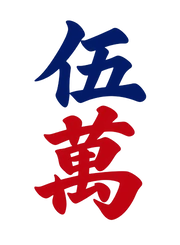
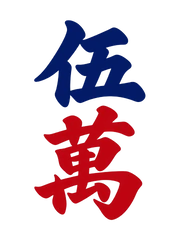
feat(mahjong): 斗內卡與感謝訊息、歷史紀錄空狀態精簡、伍萬筆畫加粗
- 歷史紀錄頁：LINE 帳號累計自摸大於 0 時顯示斗內卡，按「斗內給阿瑋．NT$50」顯示感謝訊息並歸零；「下次自摸再說」只收起
- 空狀態只留「還沒有紀錄」和「建立房間」
- 伍萬的「伍」筆畫加粗到和其他萬子一致（約 15.2px），大小、位置、顏色不變

diff --git a/app/globals.css b/app/globals.css
@@ -746,6 +746,45 @@
 .mjl-rec-sum .k { font-size: 12px; color: rgba(255,255,255,.45); }
 .mjl-rec-sum .v { font-size: 22px; font-weight: 800; font-variant-numeric: tabular-nums; color: var(--gold-l); }
 .mjl-rec-list { flex: 1; min-height: 0; overflow-y: auto; display: flex; flex-direction: column; gap: 8px; padding-bottom: 10px; }
+/* 斗內給阿瑋（小宜規格 2026-10-21；老闆：按鈕改小放右側、拿掉「不會開啟付款或跳轉」那行）。只用 .mjl-donate-*，不動 .mjl-rec-* */
+.mjl-rec-head h2:focus { outline: none; }
+.mjl-donate { flex: 0 0 auto; display: grid; grid-template-columns: 40px minmax(0, 1fr) auto; grid-template-areas: "t c b" "f f f"; align-items: center; column-gap: 12px; row-gap: 8px; margin: 0 0 10px; padding: 14px 16px 12px;
+  border: 1px solid rgba(240,214,138,.34); border-radius: 16px; background: linear-gradient(115deg, rgba(201,169,110,.17), rgba(255,255,255,.045) 55%, rgba(25,81,49,.22)); box-shadow: 0 12px 28px rgba(0,0,0,.16);
+  animation: mjl-donate-in .15s ease-out; }
+@keyframes mjl-donate-in { from { opacity: 0; transform: translateY(6px); } }
+.mjl-donate-trophy { grid-area: t; width: 40px; height: 40px; border-radius: 13px; display: grid; place-items: center; font-size: 22px; background: linear-gradient(145deg, #f7df8c, #bd8e32); box-shadow: inset 0 1px rgba(255,255,255,.55), 0 5px 13px rgba(0,0,0,.2); }
+.mjl-donate-copy { grid-area: c; min-width: 0; display: flex; flex-direction: column; gap: 3px; }
+.mjl-donate-copy .cnt { font-size: 15px; font-weight: 800; color: #fff; }
+.mjl-donate-copy .cnt b { color: var(--gold-l); font-variant-numeric: tabular-nums; }
+.mjl-donate-copy .sub { font-size: 12px; line-height: 1.5; color: rgba(255,255,255,.64); overflow: hidden; text-overflow: ellipsis; white-space: nowrap; }
+/* 精簡按鈕：右側、不滿版；點擊範圍至少 44px（::after 往外擴；z-index 讓它蓋過下面「下次自摸再說」的擴大範圍） */
+.mjl-donate-btn { grid-area: b; position: relative; z-index: 1; height: 38px; padding: 0 14px; border-radius: 11px; background: #f0d68a; color: #142216; font-size: 14px; font-weight: 900; white-space: nowrap; cursor: pointer;
+  box-shadow: 0 3px 0 #937331, 0 6px 12px rgba(0,0,0,.18); transition: transform .14s ease, box-shadow .14s ease, filter .14s ease; }
+.mjl-donate-btn::after { content: ""; position: absolute; inset: -4px -2px; }
+.mjl-donate-btn:hover { filter: brightness(1.06); }
+.mjl-donate-btn:active { transform: translateY(2px) scale(.99); box-shadow: 0 1px 0 #937331, 0 3px 7px rgba(0,0,0,.2); }
+.mjl-donate-btn:disabled { opacity: .6; }
+.mjl-donate-btn:focus-visible { outline: 2px solid #fff; outline-offset: 3px; }
+.mjl-donate-foot { grid-area: f; display: flex; align-items: center; justify-content: space-between; gap: 10px; font-size: 11px; color: rgba(255,255,255,.49); }
+.mjl-donate-later { position: relative; padding: 2px 0; color: rgba(240,214,138,.9); font-size: 12px; text-decoration: underline; text-underline-offset: 3px; cursor: pointer; }
+.mjl-donate-later::after { content: ""; position: absolute; inset: -12px -6px; }
+.mjl-donate-hidden { flex: 0 0 auto; margin: 0 0 10px; padding: 8px 13px; border: 1px dashed rgba(255,255,255,.18); border-radius: 13px; font-size: 12px; color: rgba(255,255,255,.58); text-align: center; }
+.mjl-donate-hidden button { margin-left: 7px; color: var(--gold-l); text-decoration: underline; cursor: pointer; }
+.mjl-donate-shade { position: fixed; inset: 0; z-index: 80; display: grid; place-items: center; padding: 16px; background: rgba(3,12,7,.72); backdrop-filter: blur(4px); animation: mjl-donate-fade .18s ease; }
+@keyframes mjl-donate-fade { from { opacity: 0; } }
+.mjl-donate-thanks { position: relative; width: min(420px, 100%); padding: 29px 26px 25px; border: 1px solid rgba(240,214,138,.48); border-radius: 22px; text-align: center; color: #fff;
+  background: linear-gradient(145deg, #153a25, #0b2115); box-shadow: 0 24px 80px rgba(0,0,0,.55); animation: mjl-donate-pop .2s ease; }
+@keyframes mjl-donate-pop { from { transform: translateY(10px) scale(.97); } }
+.mjl-donate-thanks .x { position: absolute; right: 11px; top: 11px; width: 34px; height: 34px; border-radius: 50%; border: 1px solid rgba(255,255,255,.13); background: rgba(255,255,255,.06); color: rgba(255,255,255,.8); font-size: 21px; line-height: 1; cursor: pointer; }
+.mjl-donate-thanks .x::after { content: ""; position: absolute; inset: -5px; }
+.mjl-donate-thanks .linepay { display: inline-grid; place-items: center; width: 46px; height: 46px; border-radius: 15px; background: #06c755; color: #fff; font-size: 10px; line-height: 1; font-weight: 900; letter-spacing: -.04em; box-shadow: 0 7px 16px rgba(0,0,0,.25); }
+.mjl-donate-thanks h3 { margin: 14px 0 7px; font-size: 20px; font-weight: 800; }
+.mjl-donate-thanks p { font-size: 15px; color: rgba(255,255,255,.72); }
+.mjl-donate-thanks .pay { margin: 18px auto 0; padding: 11px 14px; border-radius: 13px; background: rgba(6,199,85,.11); border: 1px solid rgba(6,199,85,.4); font-size: 13px; color: rgba(255,255,255,.86); }
+.mjl-donate-thanks .pay strong { display: block; margin-top: 4px; font-size: 25px; letter-spacing: .02em; color: #fff; }
+.mjl-donate-thanks .done { width: 100%; height: 44px; margin-top: 18px; border-radius: 12px; background: rgba(255,255,255,.1); color: var(--gold-l); font-weight: 800; cursor: pointer; }
+.mjl-donate-thanks .done:active { transform: scale(.98); }
+@media (prefers-reduced-motion: reduce) { .mjl-donate, .mjl-donate-thanks { animation: mjl-donate-fade .18s ease; } }
 .mjl-row {
   flex: 0 0 auto; min-height: var(--rec-row); border-radius: 14px; padding: 8px 12px; background: rgba(255,255,255,.035);
   border: 1px solid rgba(255,255,255,.07); display: flex; flex-direction: column; gap: 6px; justify-content: center;
@@ -781,12 +820,7 @@
 .mjl-more:disabled { cursor: wait; }
 .mjl-end { flex: 0 0 auto; text-align: center; font-size: 12px; color: rgba(255,255,255,.3); padding: 8px 0 12px; }
 .mjl-hollow { flex: 1; min-height: 0; display: flex; flex-direction: column; align-items: center; justify-content: center; gap: 14px; text-align: center; }
-.mjl-hollow .ic {
-  width: 64px; height: 64px; border-radius: 50%; background: rgba(255,255,255,.05); border: 1px solid rgba(255,255,255,.1);
-  display: flex; align-items: center; justify-content: center; font-size: 26px;
-}
 .mjl-hollow .t1 { font-size: 17px; font-weight: 700; color: rgba(255,255,255,.75); }
-.mjl-hollow .t2 { font-size: 13px; color: rgba(255,255,255,.4); line-height: 1.6; }
 .mjl-sk {
   flex: 0 0 auto; min-height: var(--rec-row); border-radius: 14px; background: rgba(255,255,255,.04); border: 1px solid rgba(255,255,255,.06);
   padding: 10px 12px; display: flex; flex-direction: column; gap: 8px; justify-content: center;
@@ -823,8 +857,29 @@
   .mjl-rec-sum { padding: 7px 12px; margin: 8px 0; gap: 14px; }
   .mjl-rec-sum .v { font-size: 18px; }
   .mjl-hollow { gap: 10px; }
-  .mjl-hollow .ic { width: 50px; height: 50px; font-size: 21px; }
   .mjl-rec-list { gap: 6px; }
+  /* 斗內卡（橫拿手機）：一行就好，紀錄列表才放得下 4 列；按鈕看起來 34px、點擊範圍 44px */
+  .mjl-donate { grid-template-columns: 32px minmax(0, 1fr) auto; column-gap: 9px; row-gap: 4px; margin-bottom: 7px; padding: 7px 10px 6px; border-radius: 14px; }
+  .mjl-donate-trophy { width: 32px; height: 32px; border-radius: 10px; font-size: 18px; }
+  .mjl-donate-copy { gap: 0; }
+  .mjl-donate-copy .cnt { font-size: 13px; }
+  .mjl-donate-copy .sub { font-size: 10px; }
+  .mjl-donate-btn { height: 34px; padding: 0 12px; border-radius: 10px; font-size: 13px; box-shadow: 0 3px 0 #937331, 0 5px 10px rgba(0,0,0,.18); }
+  .mjl-donate-btn::after { inset: -5px -2px; }
+  .mjl-donate-foot { font-size: 10px; }
+  .mjl-donate-later { font-size: 11px; }
+  .mjl-donate-hidden { margin-bottom: 7px; padding: 5px 10px; font-size: 11px; }
+  .mjl-donate-thanks { width: min(390px, 100%); padding: 20px 22px 18px; border-radius: 18px; }
+  .mjl-donate-thanks .linepay { width: 36px; height: 36px; border-radius: 12px; }
+  .mjl-donate-thanks h3 { margin: 8px 0 4px; font-size: 17px; }
+  .mjl-donate-thanks p { font-size: 13px; }
+  .mjl-donate-thanks .pay { margin-top: 12px; padding: 7px 12px; }
+  .mjl-donate-thanks .pay strong { font-size: 21px; }
+  .mjl-donate-thanks .done { margin-top: 12px; }
+  .mjl-donate-thanks .x { right: 8px; top: 8px; width: 30px; height: 30px; font-size: 19px; }
+  .mjl-donate-thanks .x::after { inset: -7px; }
+  /* 斗內卡出現時列表變矮：一屏改成剛好 3 整列（列高和沒有卡片時差不多，座位那一行不會被壓扁），其他照樣往下捲 */
+  .mjl-donate ~ .mjl-rec-list .mjl-row { height: calc((100cqh - 12px) / 3); }
   .mjl-row { padding: 6px 10px; gap: 4px; border-radius: 12px; }
   .mjl-row .meta { font-size: 11px; gap: 6px; }
   .mjl-row .meta .mine { font-size: 14px; }

diff --git a/components/mahjong/MjDonate.tsx b/components/mahjong/MjDonate.tsx
@@ -1,0 +1,92 @@
+"use client";
+
+// 斗內給阿瑋（小宜〈斗內給阿瑋-UIUX設計規格-2026-10-21〉；老闆 2026-10-21：拿掉「不會開啟付款或跳轉」那行、按鈕改小放右側）。
+// 歷史紀錄的成就回饋，不是付款頁：按下去只跳感謝訊息，不跳轉、不開 LINE Pay、不追蹤有沒有付款。
+// 只給 LINE 玩家：自摸次數由伺服器照登入帳號算（GET /api/mahjong/donate → { count }），> 0 才顯示；
+// 按斗內 → POST /api/mahjong/donate/ack，成功才把次數設成 0（卡片收起）；失敗照樣跳感謝訊息，但卡片留著，下次打開再取一次。
+
+import { useCallback, useEffect, useRef, useState } from "react";
+import { mjFetch } from "@/lib/mahjong/clientAuth";
+import type { MjAuthUser } from "@/hooks/useMjAuth";
+
+export default function MjDonate({ user, focusBack }: { user: MjAuthUser; focusBack: () => void }) {
+  const [count, setCount] = useState<number | null>(null); // null＝還沒取到或取失敗：不顯示
+  const [later, setLater] = useState(false); // 「下次自摸再說」：只在這次瀏覽收起，不歸零
+  const [thanks, setThanks] = useState(false);
+  const [busy, setBusy] = useState(false);
+  const doneRef = useRef<HTMLButtonElement>(null);
+
+  useEffect(() => {
+    if (user.isGuest) return; // 訪客不取、也不顯示
+    let alive = true;
+    mjFetch("/api/mahjong/donate", { method: "GET" })
+      .then((r) => (r.ok ? r.json() : null))
+      .then((d: { count?: unknown } | null) => { if (alive && d && typeof d.count === "number") setCount(d.count); })
+      .catch(() => {});
+    return () => { alive = false; };
+  }, [user.isGuest]);
+
+  const donate = async () => {
+    if (busy) return;
+    setBusy(true);
+    try {
+      const r = await mjFetch("/api/mahjong/donate/ack", { method: "POST", body: "{}" });
+      if (r.ok) setCount(0); // 伺服器已歸零：卡片收起，等下次自摸再出現
+    } catch { /* 失敗：卡片留著，下次打開歷史紀錄再取一次正確的次數 */ }
+    setBusy(false);
+    setThanks(true);
+  };
+
+  const close = useCallback(() => {
+    setThanks(false);
+    focusBack(); // 卡片可能已經收起：焦點回到「歷史紀錄」標題
+  }, [focusBack]);
+
+  useEffect(() => {
+    if (!thanks) return;
+    doneRef.current?.focus();
+    const onKey = (e: KeyboardEvent) => { if (e.key === "Escape") close(); };
+    window.addEventListener("keydown", onKey);
+    return () => window.removeEventListener("keydown", onKey);
+  }, [thanks, close]);
+
+  const show = !user.isGuest && count != null && count > 0;
+  return (
+    <>
+      {show && !later && (
+        <section className="mjl-donate" aria-label="斗內給阿瑋" data-donate-card>
+          <div className="mjl-donate-trophy" aria-hidden="true">🏆</div>
+          <div className="mjl-donate-copy">
+            <span className="cnt">累計自摸 <b data-donate-count>{count}</b> 次</span>
+            <span className="sub">你的好手氣，也能成為阿瑋的開發基金</span>
+          </div>
+          <button type="button" className="mjl-donate-btn" data-donate-btn disabled={busy} onClick={donate}>
+            斗內給阿瑋．NT$50
+          </button>
+          <div className="mjl-donate-foot">
+            <span>純屬自願，不影響任何遊戲功能</span>
+            <button type="button" className="mjl-donate-later" data-donate-later onClick={() => setLater(true)}>下次自摸再說</button>
+          </div>
+        </section>
+      )}
+      {show && later && (
+        <p className="mjl-donate-hidden" data-donate-hidden>
+          本次已先收起斗內提醒。
+          <button type="button" onClick={() => setLater(false)}>顯示卡片</button>
+        </p>
+      )}
+      {thanks && (
+        <div className="mjl-donate-shade" data-donate-thanks onClick={(e) => { if (e.target === e.currentTarget) close(); }}>
+          <section className="mjl-donate-thanks" role="dialog" aria-modal="true" aria-labelledby="mjl-donate-ttl">
+            <button type="button" className="x" aria-label="關閉感謝訊息" data-donate-x onClick={close}>×</button>
+            <span className="linepay" aria-label="LINE Pay">LINE<br />Pay</span>
+            <h3 id="mjl-donate-ttl">感謝乾爹乾媽的開發基金！</h3>
+            <p>您的心意，阿瑋感受到了！</p>
+            <div className="pay">歡迎使用 LINE Pay 贊助阿瑋<strong>NT$50</strong></div>
+            <button type="button" className="done" ref={doneRef} data-donate-done onClick={close}>知道了</button>
+          </section>
+        </div>
+      )}
+    </>
+  );
+}

diff --git a/components/mahjong/MjRecords.tsx b/components/mahjong/MjRecords.tsx
@@ -2,10 +2,11 @@
 
 // 歷史紀錄面板（小宜規格 v2 §9）：摘要列固定、一場一列（不可點）、載入更多
 
-import { useCallback, useEffect, useState } from "react";
+import { useCallback, useEffect, useRef, useState } from "react";
 import { mjFetch } from "@/lib/mahjong/clientAuth";
 import type { MjAuthUser } from "@/hooks/useMjAuth";
 import { Avatar } from "./MjLobbyAuth";
+import MjDonate from "./MjDonate";
 
 interface RecordPlayer {
   seat: number;
@@ -112,6 +113,8 @@ export default function MjRecords({
   const [loaded, setLoaded] = useState(false); // 第一頁回來了
   const [loading, setLoading] = useState(false);
   const [failed, setFailed] = useState(false);
+  const titleRef = useRef<HTMLHeadingElement>(null);
+  const focusTitle = useCallback(() => titleRef.current?.focus(), []);
 
   const load = useCallback(
     async (cursor: string | null) => {
@@ -149,7 +152,7 @@ export default function MjRecords({
     <div className="mjl mjl-rec">
       <div className="mjl-rec-head">
         <button type="button" className="back" onClick={onClose} aria-label="返回">‹</button>
-        <h2>歷史紀錄</h2>
+        <h2 ref={titleRef} tabIndex={-1}>歷史紀錄</h2>
         <span className="sp" />
         <div className="mjl-who">
           <Avatar user={user} />
@@ -167,18 +170,15 @@ export default function MjRecords({
             <span className={`v ${scoreClass(total)}`}>{scoreText(total)}</span>
           </div>
         </div>
+        {/* 斗內卡：摘要列下面、紀錄列表上面（LINE 玩家、累計自摸 > 0 才出現） */}
+        <MjDonate user={user} focusBack={focusTitle} />
 
         {!loaded && loading ? (
           <Skeleton />
         ) : loaded && items.length === 0 ? (
           <div className="mjl-hollow">
-            <div className="ic">🀄</div>
+            {/* 老闆 2026-10-21：空狀態只留「還沒有紀錄」和「建立房間」 */}
             <p className="t1">還沒有紀錄</p>
-            <p className="t2">
-              打完一整場，或四家同意解散後，
-              <br />
-              這一場就會記下來。
-            </p>
             <button type="button" className="mjl-btn primary" style={{ width: 220 }} onClick={onCreate}>
               建立房間
             </button>
